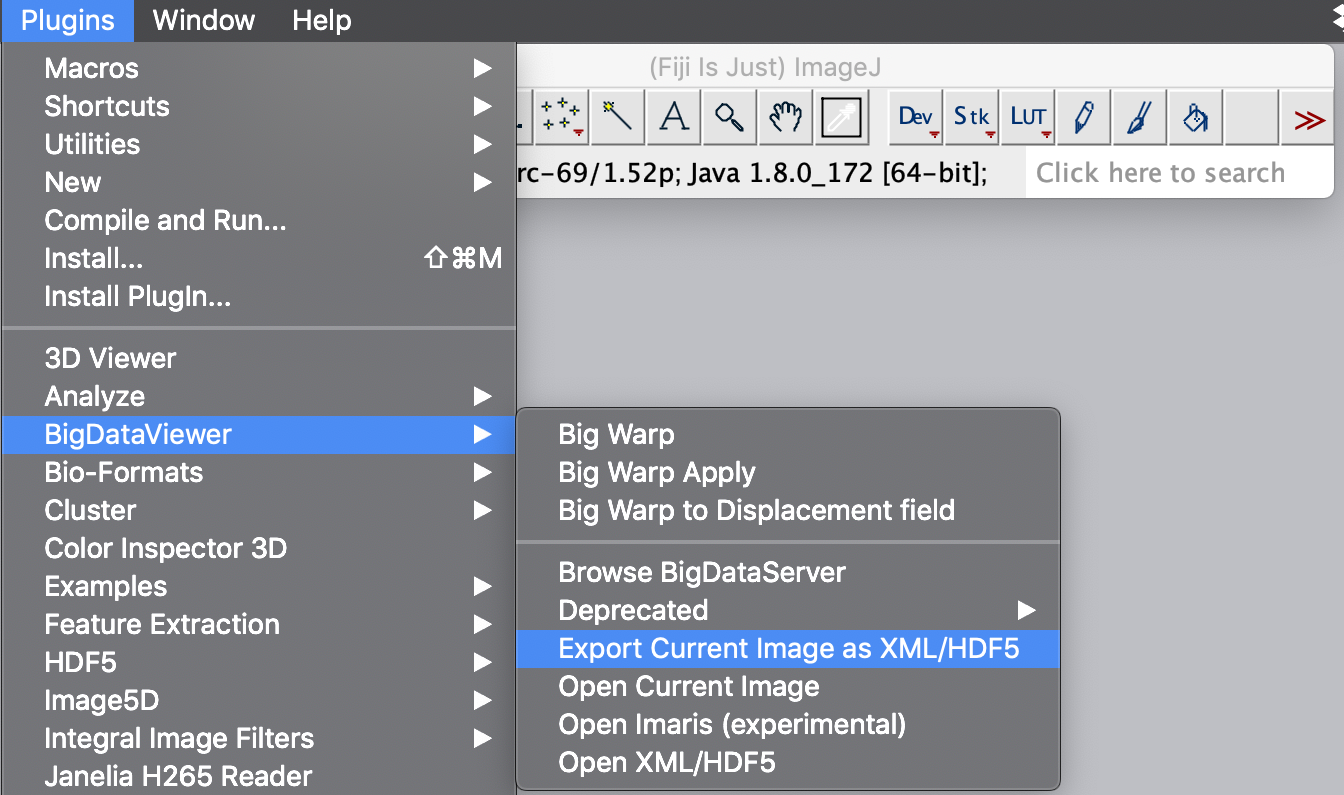
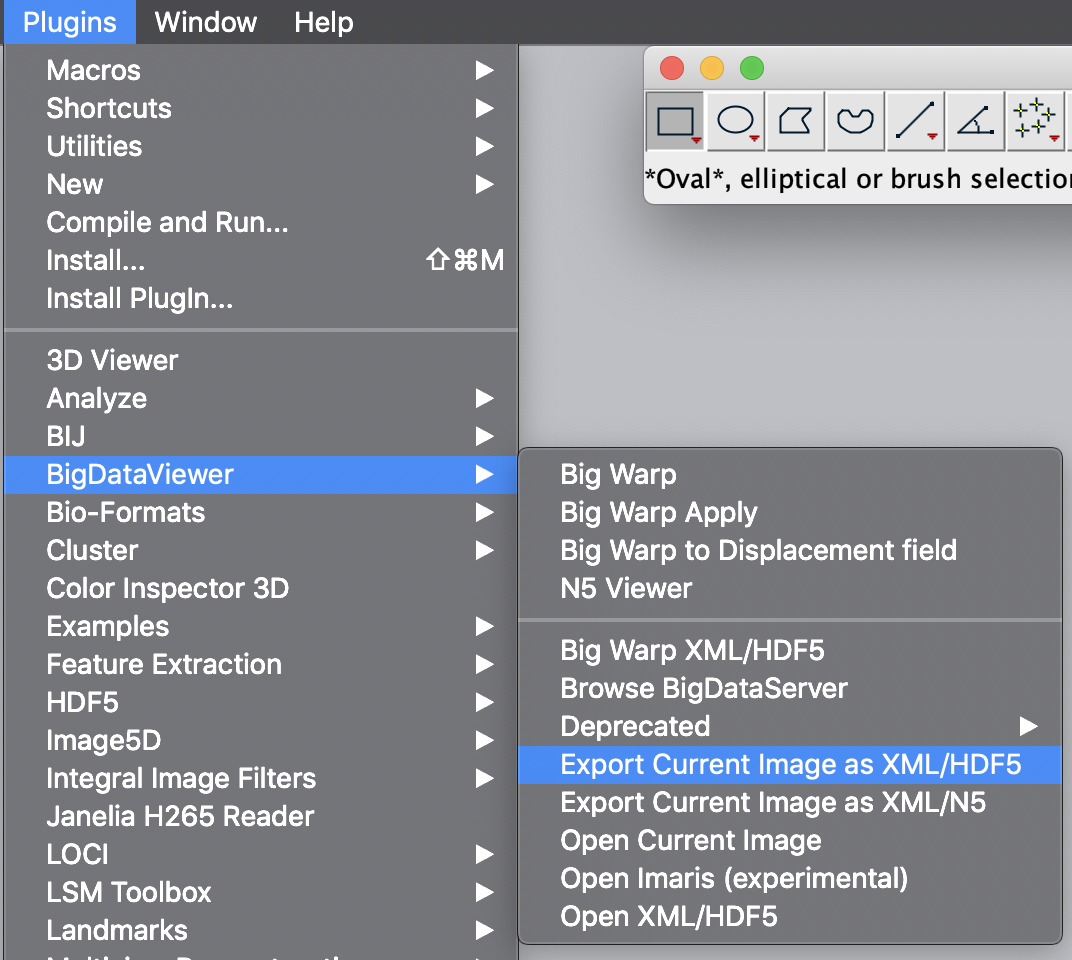
text updates

diff --git a/tutorials/WorkingWithMars/bdv.md b/tutorials/WorkingWithMars/bdv.md
@@ -8,21 +8,23 @@ _level: advanced, duration: 10 min_
 
 This tutorial explores the **Rover** option to show a tracked molecule in the original video. This eminently useful function can be used for visual examination of the molecule after analysis for validation of the observed behavior. This would rule out flaws in tracking having a major impact on the drawn conclusion from the data.
 
-The video viewer is based on [BigDataViewer](https://imagej.net/BigDataViewer#Description)<sup>1</sup> and as such requires converting the video of interest to the BigDataViewer file format XML/HDF5. To do so the [instructions](https://imagej.net/BigDataViewer#Exporting_Datasets_for_the_BigDataViewer) supplied in their documentation is used.
+The video viewer is based on [BigDataViewer](https://imagej.net/BigDataViewer#Description)<sup>1</sup> and as such requires converting the video of interest to the BigDataViewer file format XML/HDF5 or in the [XML/N5](https://github.com/saalfeldlab/n5) format. [Instructions](https://imagej.net/BigDataViewer#Exporting_Datasets_for_the_BigDataViewer) to convert your video to the XML/HDF5 format can be found in the BigDataViewer documentation.
 
-Steps 1-3 are required to set up the connection between the Molecule Archive and the XML video. These only have to be executed once per Molecule Archive and can then be saved to the Molecule Archive. If the connection has been established and saved, step 4 and 5 can be executed independently. To start, download the ['TestVideo.tif'](https://github.com/duderstadt-lab/mars-tutorials/tree/master/Tutorial_files/Working%20with%20Mars) dataset from the [git tutorials repository](https://github.com/duderstadt-lab/mars-tutorials/tree/master/Tutorial_files/Working%20with%20Mars).
+Steps 1-3 are required to set up the connection between the Molecule Archive and the video. These only have to be executed once per Archive and can then be saved to the Archive for later reference. Please note that the explicit file path is saved, meaning that if the video files were to be stored at a different position, the file path would need to  be updated. If the connection has been established and saved, step 4 and 5 can be executed independently. To start, download the ['TestVideo.tif'](https://github.com/duderstadt-lab/mars-tutorials/tree/master/Tutorial_files/Working%20with%20Mars) dataset from the [git tutorials repository](https://github.com/duderstadt-lab/mars-tutorials/tree/master/Tutorial_files/Working%20with%20Mars).
 
-### 1. Converting the Video to XML/H5 Format
-First open the video of interest in Fiji as a stack. Next select the BigDataViewer plugin and select the function "Export Current Image as XML/HDF5". This will open a dialogue in which the export path has to be set. Press ok and wait until the export process has finished. Find the exported video at the specified file path.
+### 1. Converting the Video to XML/H5 or XML/N5 Format  
+First open the video of interest in Fiji as a stack. Next select the BigDataViewer plugin and select the function "Export Current Image as XML/HDF5" or select "Export Current Image as XML/N5". This will open a dialogue in which the export path has to be set. Press ok and wait until the export process has finished. Find the exported video at the specified file path.
 
 <div style="text-align: center"><img  src='{{site.baseurl}}/tutorials/img/bdv/img1.png' width='450'/></div>
-<div style="text-align: center"><img  src='{{site.baseurl}}/tutorials/img/bdv/img2.png' width='350'/></div>
+<div style="text-align: center">
+<img  src='{{site.baseurl}}/tutorials/img/bdv/img2.png' width='350'/>
+<img  src='{{site.baseurl}}/tutorials/img/bdv/img14.png' width='350'/></div>
 
 
 For further information and in-depth documentation about this software and file format please have a look in the [BigDataViewer documentation](https://imagej.net/BigDataViewer#Exporting_Datasets_for_the_BigDataViewer). The XML and H5 files for TestVideo.tif can also be found in the [tutorial repository](https://github.com/duderstadt-lab/mars-tutorials/tree/master/Tutorial_files/Working%20with%20Mars).
 
-### 2. Coupling the XML File to the Molecule Archive
-The next step is to couple the generated XML file to the corresponding Molecule Archive. Open the Molecule Archive (Plugins>Molecule Archive Suite>Molecule>Open Archive) and go to the 'Metadata' tab. Move to the 'Bdv Views' tab in the middle window and move to text input field. (see circles on the image) Provide the desired name tag and press the + button. Select the XML file and continue.
+### 2. Coupling the file to the Molecule Archive
+The next step is to couple the generated HDF5 or N5 file to the corresponding  Archive. Open the Molecule Archive (Plugins>Molecule Archive Suite>Molecule>Open Archive) and go to the 'Metadata' tab. Move to the 'Bdv Views' tab in the middle window and move to text input field. (see circles on the image) Provide the desired name tag and press the + button. Select the file and continue. Make sure to select the correct format on the button left of the entry field by clicking on it to switch between N5 and HD5.
 
 <div style="text-align: center"><img  src='{{site.baseurl}}/tutorials/img/bdv/img3.png' width='450'/></div>
 

diff --git a/docs/MarsRover/Toolbar.md b/docs/MarsRover/Toolbar.md
@@ -32,5 +32,4 @@ A Molecule Archive can be saved in two ways:
 | Delete Segment Tables       | Deletes segment tables generated by the kinetic change point analysis.       |
 | Merge Molecules       | Merges the data tables of multiple molecules. Use f.e. if a tracking result appears to be split into multiple smaller tracked segments.       |
 | Show Video      | Shows the video at a specific position corresponding to a tracked molecule. See also the [tutorial](https://duderstadt-lab.github.io/mars-docs/tutorials/workingwithmars/bdv/) on finding tracked molecules in the video.      |
-| Export Video      | Exports the video at a specific position corresponding to a tracked molecule. See also the [tutorial](https://duderstadt-lab.github.io/mars-docs/tutorials/workingwithmars/bdv/) on finding tracked molecules in the video, step 5.        |
 | Rebuild indexes      | Rebuild the index.json file when operating in virtual storage.        |
